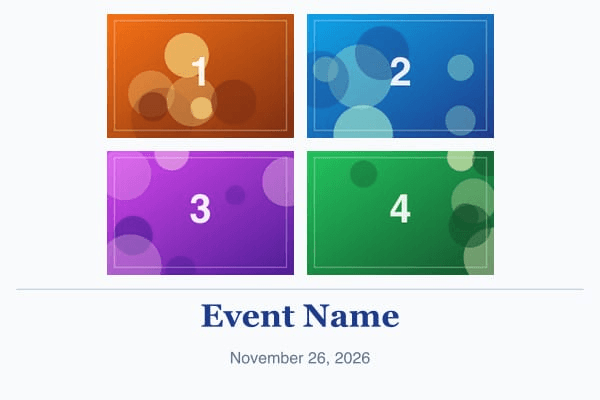
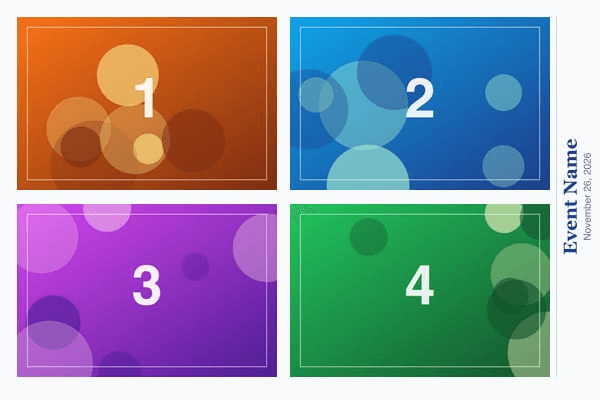
Even out spacing in the strip, film, story and postcard designs.

diff --git a/server/scripts/generate-example-designs.ts b/server/scripts/generate-example-designs.ts
@@ -34,12 +34,12 @@ const specs: Spec[] = [
       background: "background.png", foreground: null, preview: "preview.png",
       photos: slots3(60, 60, 1080, 720, 60),
       texts: [
-        { text: "{eventName}", x: 60, y: 2620, width: 1080, align: "center", fontSize: 92, fontWeight: "bold", color: "#18181b", fontFamily: "Georgia, serif" },
-        { text: "{date}", x: 60, y: 2760, width: 1080, align: "center", fontSize: 56, color: "#71717a", fontFamily: "Helvetica, Arial, sans-serif" },
+        { text: "{eventName}", x: 60, y: 2930, width: 1080, align: "center", fontSize: 92, fontWeight: "bold", color: "#18181b", fontFamily: "Georgia, serif" },
+        { text: "{date}", x: 60, y: 3060, width: 1080, align: "center", fontSize: 56, color: "#71717a", fontFamily: "Helvetica, Arial, sans-serif" },
       ],
     },
     background: svg(1200, 3600, `<rect width="100%" height="100%" fill="#ffffff"/><rect x="24" y="24" width="1152" height="3552" fill="none" stroke="#e4e4e7" stroke-width="4"/>
-      <line x1="420" y1="2860" x2="780" y2="2860" stroke="#d4d4d8" stroke-width="4"/>`),
+      <line x1="420" y1="3140" x2="780" y2="3140" stroke="#d4d4d8" stroke-width="4"/>`),
   },
   {
     json: {
@@ -50,8 +50,8 @@ const specs: Spec[] = [
       backgroundColor: "#0a0a0a",
       photos: slots3(130, 200, 940, 627, 120, { radius: 12 }),
       texts: [
-        { text: "{eventName}", x: 0, y: 2700, width: 1200, align: "center", fontSize: 84, fontWeight: "bold", color: "#fafafa", fontFamily: "Helvetica, Arial, sans-serif" },
-        { text: "{date}", x: 0, y: 2820, width: 1200, align: "center", fontSize: 48, color: "#a1a1aa", fontFamily: "Helvetica, Arial, sans-serif" },
+        { text: "{eventName}", x: 0, y: 2960, width: 1200, align: "center", fontSize: 84, fontWeight: "bold", color: "#fafafa", fontFamily: "Helvetica, Arial, sans-serif" },
+        { text: "{date}", x: 0, y: 3080, width: 1200, align: "center", fontSize: 48, color: "#a1a1aa", fontFamily: "Helvetica, Arial, sans-serif" },
       ],
     },
     background: svg(1200, 3600, `<rect width="100%" height="100%" fill="#0a0a0a"/>`),
@@ -138,10 +138,10 @@ const polaroidFrames = (slots: { x: number; y: number; width: number; height: nu
   }).join("");
 
 const storySlots4 = [
-  { index: 0, x: 150, y: 230, width: 600, height: 400, fit: "cover", rotation: -4, radius: 6 },
-  { index: 1, x: 330, y: 640, width: 600, height: 400, fit: "cover", rotation: 3, radius: 6 },
-  { index: 2, x: 150, y: 1050, width: 600, height: 400, fit: "cover", rotation: -3, radius: 6 },
-  { index: 3, x: 330, y: 1460, width: 600, height: 400, fit: "cover", rotation: 2, radius: 6 },
+  { index: 0, x: 150, y: 230, width: 570, height: 380, fit: "cover", rotation: -4, radius: 6 },
+  { index: 1, x: 360, y: 640, width: 570, height: 380, fit: "cover", rotation: 3, radius: 6 },
+  { index: 2, x: 150, y: 1050, width: 570, height: 380, fit: "cover", rotation: -3, radius: 6 },
+  { index: 3, x: 360, y: 1460, width: 570, height: 380, fit: "cover", rotation: 2, radius: 6 },
 ];
 
 const slots4 = (x: number, y0: number, w: number, h: number, gap: number, extra: Record<string, unknown> = {}) =>
@@ -156,14 +156,14 @@ specs.push(
       description: "Traditional 2×6 strip: four photos on white with the event name underneath.",
       width: 1200, height: 3600, photoCount: 4,
       background: "background.png", foreground: null, preview: "preview.png",
-      photos: slots4(90, 60, 1020, 680, 50),
+      photos: slots4(60, 60, 1080, 675, 60),
       texts: [
-        { text: "{eventName}", x: 60, y: 3190, width: 1080, align: "center", fontSize: 92, fontWeight: "bold", color: "#18181b", fontFamily: "Georgia, serif" },
-        { text: "{date}", x: 60, y: 3320, width: 1080, align: "center", fontSize: 56, color: "#71717a", fontFamily: "Helvetica, Arial, sans-serif" },
+        { text: "{eventName}", x: 60, y: 3230, width: 1080, align: "center", fontSize: 92, fontWeight: "bold", color: "#18181b", fontFamily: "Georgia, serif" },
+        { text: "{date}", x: 60, y: 3350, width: 1080, align: "center", fontSize: 56, color: "#71717a", fontFamily: "Helvetica, Arial, sans-serif" },
       ],
     },
     background: svg(1200, 3600, `<rect width="100%" height="100%" fill="#ffffff"/><rect x="24" y="24" width="1152" height="3552" fill="none" stroke="#e4e4e7" stroke-width="4"/>
-      <line x1="420" y1="3410" x2="780" y2="3410" stroke="#d4d4d8" stroke-width="4"/>`),
+      <line x1="420" y1="3430" x2="780" y2="3430" stroke="#d4d4d8" stroke-width="4"/>`),
   },
   {
     json: {
@@ -172,10 +172,10 @@ specs.push(
       width: 1200, height: 3600, photoCount: 4,
       background: "background.png", foreground: "foreground.png", preview: "preview.png",
       backgroundColor: "#0a0a0a",
-      photos: slots4(150, 160, 900, 600, 80, { radius: 12 }),
+      photos: slots4(130, 100, 940, 660, 40, { radius: 12 }),
       texts: [
-        { text: "{eventName}", x: 0, y: 3100, width: 1200, align: "center", fontSize: 84, fontWeight: "bold", color: "#fafafa", fontFamily: "Helvetica, Arial, sans-serif" },
-        { text: "{date}", x: 0, y: 3220, width: 1200, align: "center", fontSize: 48, color: "#a1a1aa", fontFamily: "Helvetica, Arial, sans-serif" },
+        { text: "{eventName}", x: 0, y: 3200, width: 1200, align: "center", fontSize: 84, fontWeight: "bold", color: "#fafafa", fontFamily: "Helvetica, Arial, sans-serif" },
+        { text: "{date}", x: 0, y: 3320, width: 1200, align: "center", fontSize: 48, color: "#a1a1aa", fontFamily: "Helvetica, Arial, sans-serif" },
       ],
     },
     background: specs.find((s) => s.json.id === "midnight-film")!.background,
@@ -222,17 +222,17 @@ specs.push(
       width: 1800, height: 1200, photoCount: 4,
       background: "background.png", foreground: null, preview: "preview.png",
       photos: [
-        { index: 0, x: 320, y: 40, width: 560, height: 373, fit: "cover" },
-        { index: 1, x: 920, y: 40, width: 560, height: 373, fit: "cover" },
-        { index: 2, x: 320, y: 453, width: 560, height: 373, fit: "cover" },
-        { index: 3, x: 920, y: 453, width: 560, height: 373, fit: "cover" },
+        { index: 0, x: 50, y: 50, width: 780, height: 520, fit: "cover" },
+        { index: 1, x: 870, y: 50, width: 780, height: 520, fit: "cover" },
+        { index: 2, x: 50, y: 610, width: 780, height: 520, fit: "cover" },
+        { index: 3, x: 870, y: 610, width: 780, height: 520, fit: "cover" },
       ],
       texts: [
-        { text: "{eventName}", x: 50, y: 980, width: 1700, align: "center", fontSize: 96, fontWeight: "bold", color: "#1e3a8a", fontFamily: "Georgia, serif" },
-        { text: "{date}", x: 50, y: 1090, width: 1700, align: "center", fontSize: 48, color: "#64748b", fontFamily: "Helvetica, Arial, sans-serif" },
+        { text: "{eventName}", x: 1665, y: 590, width: 130, align: "center", fontSize: 56, fontWeight: "bold", color: "#1e3a8a", fontFamily: "Georgia, serif", rotation: -90 },
+        { text: "{date}", x: 1707, y: 590, width: 130, align: "center", fontSize: 30, color: "#64748b", fontFamily: "Helvetica, Arial, sans-serif", rotation: -90 },
       ],
     },
-    background: svg(1800, 1200, `<rect width="100%" height="100%" fill="#f8fafc"/><rect x="50" y="866" width="1700" height="4" fill="#cbd5e1"/>`),
+    background: svg(1800, 1200, `<rect width="100%" height="100%" fill="#f8fafc"/><rect x="1668" y="50" width="3" height="1080" fill="#cbd5e1"/>`),
   },
 );
 
